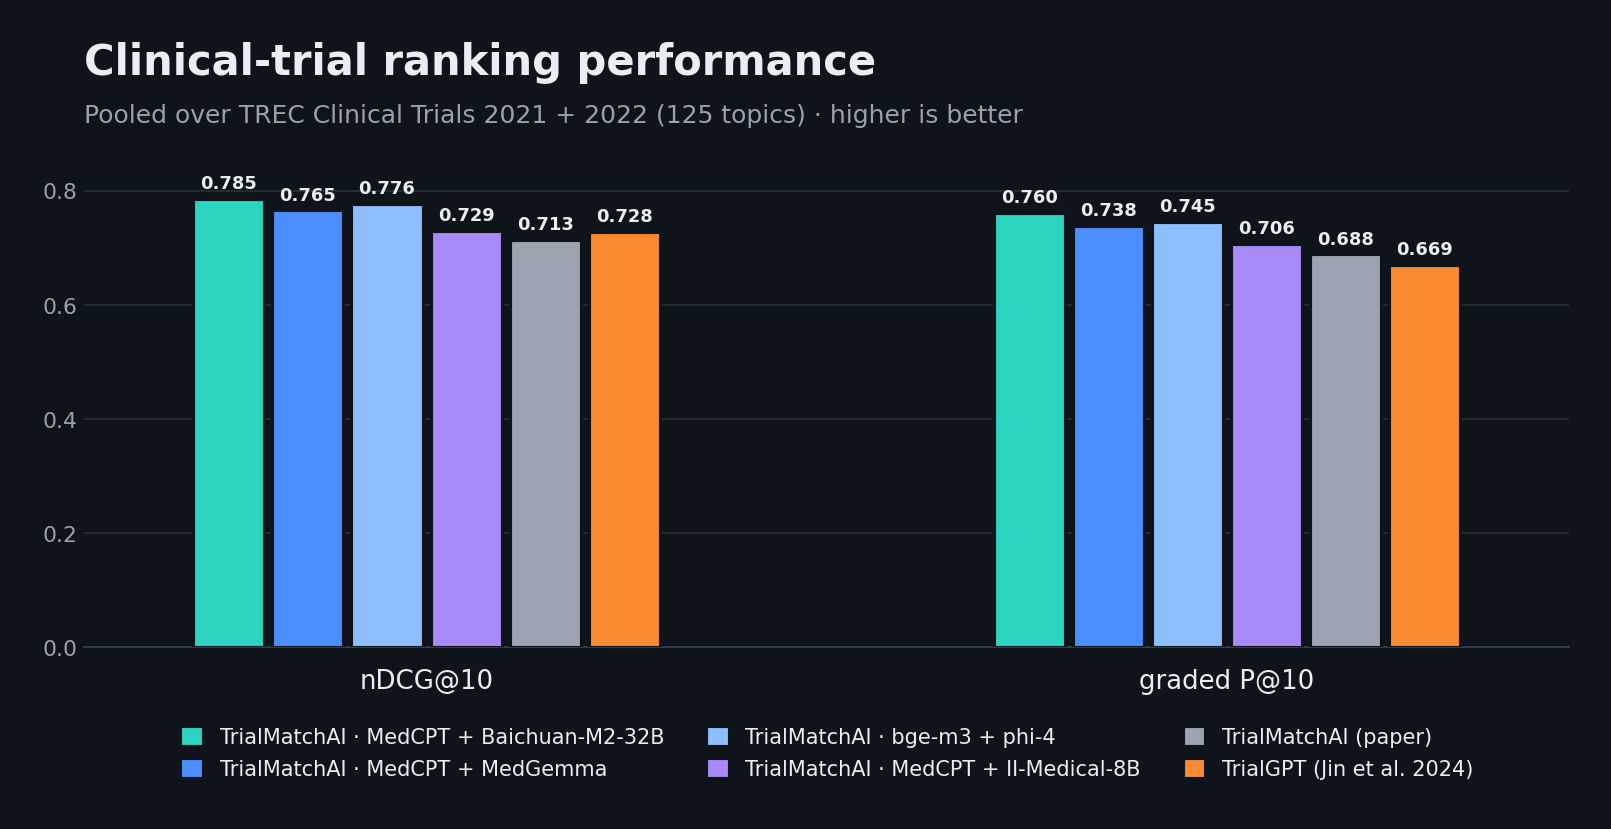
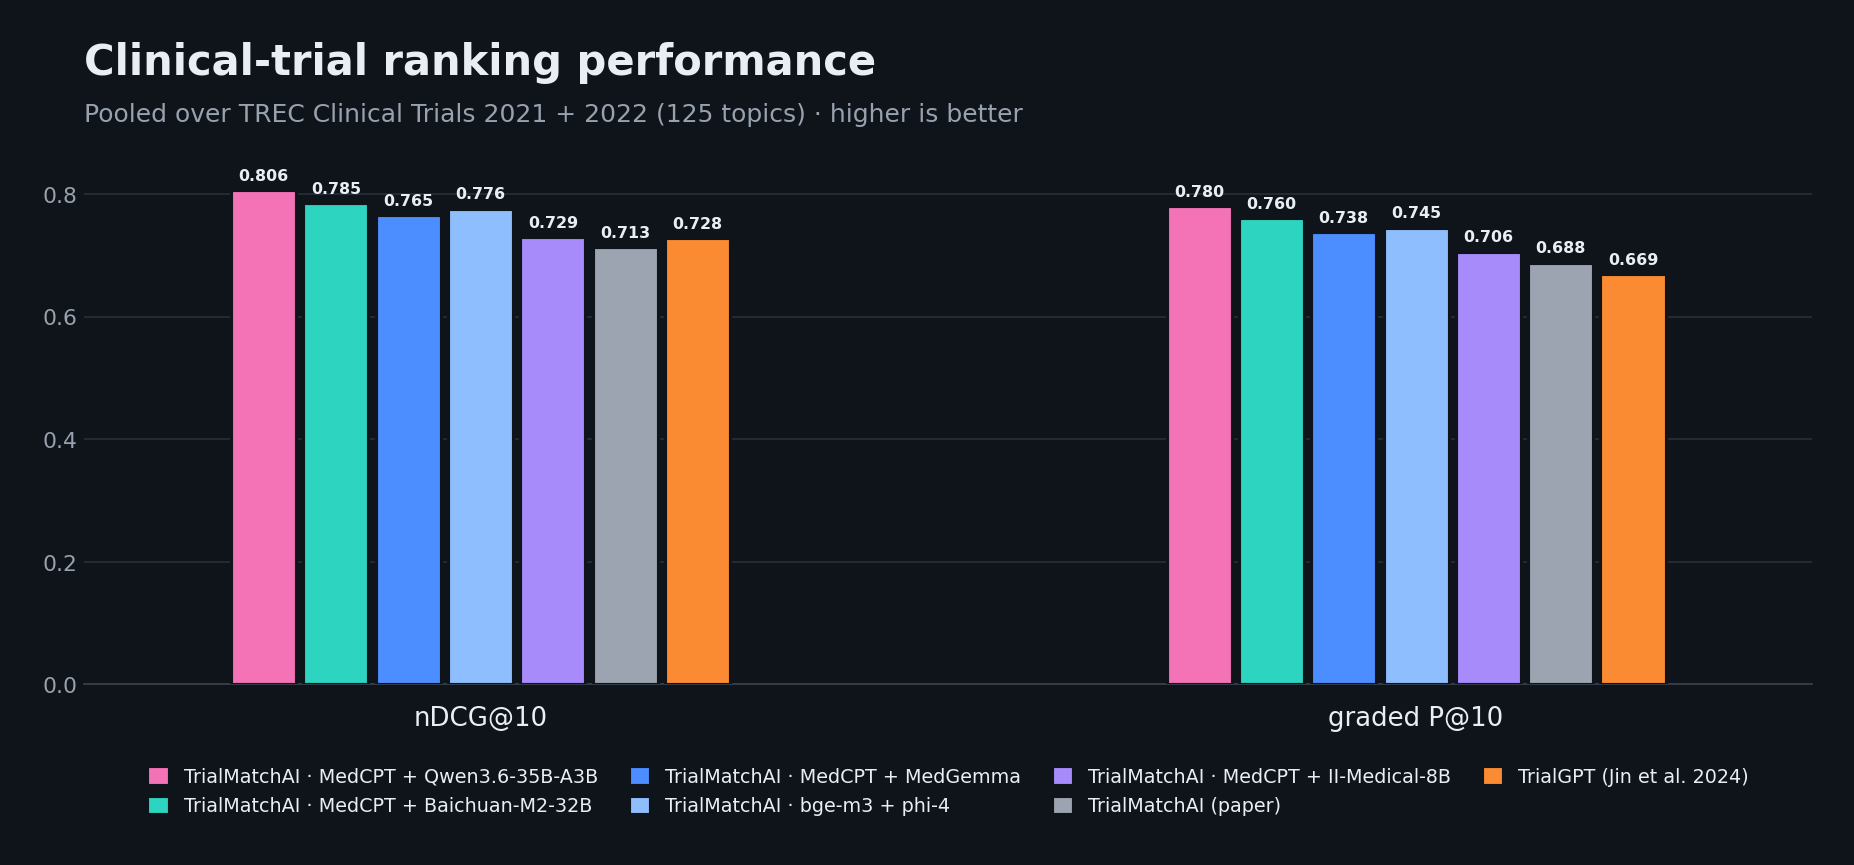
fix: sync __version__ with pyproject (0.8.1); add Qwen3.6-35B-A3B to the performance figure
v0.8.0 shipped with __version__ still at 0.7.0, which the version-drift guard in
test_package_imports caught (red CI). Bump both pyproject and __version__ to 0.8.1.

Also add the completed MedCPT + Qwen3.6-35B-A3B (2-bit MoE, ~3B active) arm to the
TREC 2021+2022 performance figure: pooled nDCG@10 0.806 / graded P@10 0.780 over the
125 topics, the top reasoner on both metrics (narrowly ahead of Baichuan-M2-32B).

diff --git a/src/trialmatchai/__init__.py b/src/trialmatchai/__init__.py
@@ -1,3 +1,3 @@
 from __future__ import annotations
 
-__version__ = "0.7.0"
+__version__ = "0.8.1"

diff --git a/README.md b/README.md
@@ -38,31 +38,31 @@ Trials, models, indexes, and results all live on your own machine.
 
 This release ships two TrialMatchAI configurations: a clinical one that pairs the
 MedCPT retriever with MedGemma, and a general one that pairs bge-m3 with phi-4. The
-bars below also include two experimental reasoners on MedCPT retrieval: the
-thinking-model Baichuan-M2-32B and a compact II-Medical-8B. On the official **TREC
-Clinical Trials** benchmark (2021 and 2022, 125 topics pooled), all four rank
-eligible trials more accurately than the published TrialMatchAI system (the “paper”
-bars) and than **TrialGPT** (Jin et al., *Nature Communications* 2024):
+bars below also include three experimental reasoners on MedCPT retrieval: the
+thinking-model Baichuan-M2-32B, a 2-bit Qwen3.6-35B-A3B MoE, and a compact
+II-Medical-8B. On the official **TREC Clinical Trials** benchmark (2021 and 2022,
+125 topics pooled), all five rank eligible trials more accurately than the published
+TrialMatchAI system (the “paper” bars) and than **TrialGPT** (Jin et al., *Nature
+Communications* 2024):
 
 <picture>
   <source media="(prefers-color-scheme: dark)" srcset="docs/assets/performance_dark.png">
-  <img alt="Clinical-trial ranking performance on TREC CT 2021+2022 (pooled): nDCG@10 and graded P@10 for four TrialMatchAI reasoners (MedCPT+Baichuan-M2-32B, MedCPT+MedGemma, bge-m3+phi-4, MedCPT+II-Medical-8B) vs the paper vs TrialGPT" src="docs/assets/performance_light.png" width="820">
+  <img alt="Clinical-trial ranking performance on TREC CT 2021+2022 (pooled): nDCG@10 and graded P@10 for five TrialMatchAI reasoners (MedCPT+Qwen3.6-35B-A3B, MedCPT+Baichuan-M2-32B, MedCPT+MedGemma, bge-m3+phi-4, MedCPT+II-Medical-8B) vs the paper vs TrialGPT" src="docs/assets/performance_light.png" width="880">
 </picture>
 
 <sub>nDCG@10 and graded P@10 pooled over TREC Clinical Trials 2021 and 2022 (125
-topics), computed on judged trials. The four TrialMatchAI configurations and the
+topics), computed on judged trials. The five TrialMatchAI configurations and the
 paper use the identical ranking metric on the same topics, so those comparisons are
 exact. TrialGPT shows the value reported in Jin et al. (2024); their evaluation also
 includes the SIGIR 2016 cohort, so treat it as an indicative reference rather than a
-matched run. Baichuan-M2-32B edges the two default reasoners here, but the margin is
-small (about 0.01 to 0.02) and comes almost entirely from the 2021 track; on 2022
-the bge-m3 + phi-4 config is slightly ahead. Read Baichuan's edge with one caveat: it
-ran with grammar-constrained JSON output so nearly all of its verdicts parsed, while
-MedGemma and phi-4 had roughly 8% parse failures that can drop otherwise-eligible
-trials, so part of the gap is a formatting effect. At the small-model end,
-II-Medical-8B is the most compact reasoner here yet still matches TrialGPT on nDCG@10
-and beats it on graded P@10, so even an 8B model clears the reference bar. Reproduce
-ours with `trialmatchai trec --tracks "21 22"`.</sub>
+matched run. The 2-bit Qwen3.6-35B-A3B MoE (about 3B active parameters) leads on both
+metrics, narrowly ahead of Baichuan-M2-32B; both run with grammar-constrained JSON so
+nearly all of their verdicts parse, while MedGemma and phi-4 had roughly 8% parse
+failures that can drop otherwise-eligible trials, so part of that gap is a formatting
+effect. The margins among the top reasoners are small (about 0.01 to 0.04). At the
+small-model end, II-Medical-8B is the most compact reasoner here yet still matches
+TrialGPT on nDCG@10 and beats it on graded P@10, so even an 8B model clears the
+reference bar. Reproduce ours with `trialmatchai trec --tracks "21 22"`.</sub>
 
 **Retrieval recall by embedder.** This is the share of eligible trials (qrels
 grade 2) that the first-level search surfaces among its top *k* candidates, across
